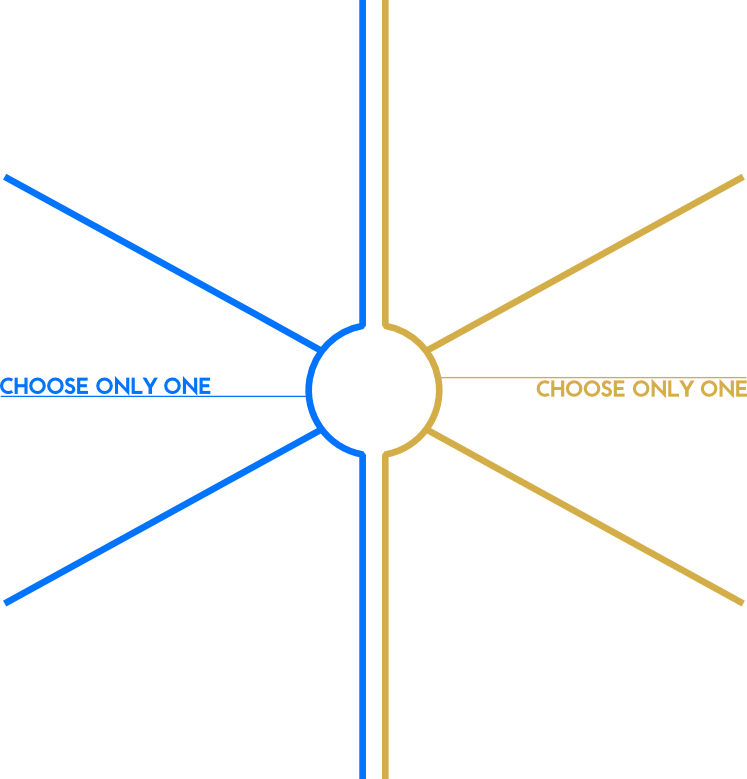
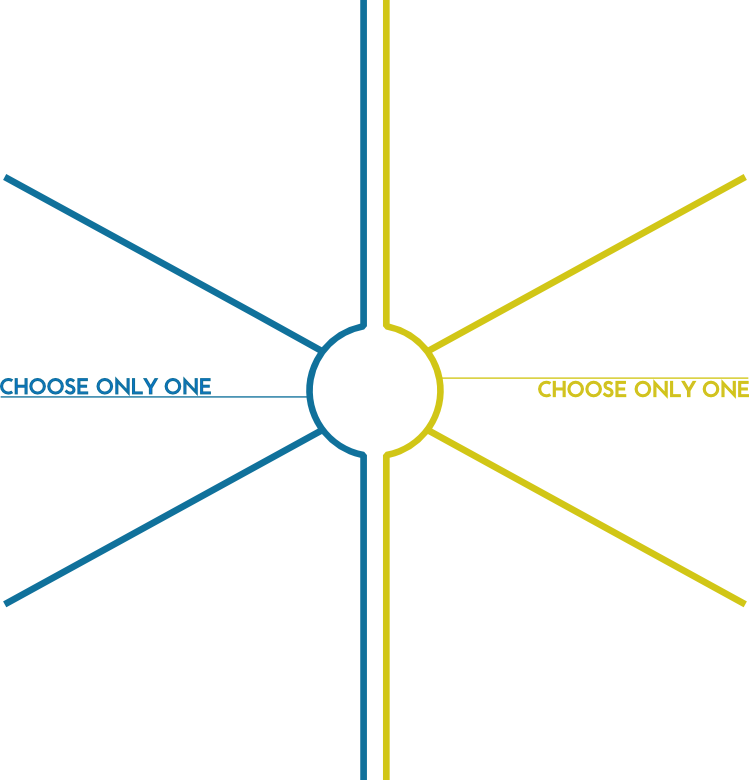
New and delete character options
Added in a "New character" tile + popup dialog which allows characters
to be created by name. Also took the opportunity to fix some styling
hiccups on the dialog (shared by "New codice") and finally style the
error message that comes back. Also trimmed off some superfluous error
text, too.

As a bonus, color-matched the weapon_path.png based on the Kuler triad.

diff --git a/client/new_character_dialog.js b/client/new_character_dialog.js
@@ -1,0 +1,52 @@
+
+// Is the dialog visible?
+Template.new_character_dialog.isVisible = function() {
+  return Session.get('new_character');
+}
+
+// The object representing the newly forming codice.
+Template.new_character_dialog.character_being_created = function() {
+  return Session.get('new_character');
+}
+
+// This is fired whenever our "add" attempt finishes
+// or fails.
+var newCharacterCallback = function(err, result) {
+  if (err) {
+    console.log('error: ' + err);
+    Session.set('new_character', _.extend(Session.get('new_character'), {
+      error: ErrorUtils.extract(err.toString())
+    }));
+  } else {
+    console.log('success; new character id: ' + result);
+    Session.set('new_character', null);
+    var name = Characters.findOne({_id: result}).name;
+    Router.go('character', {name: name});
+  }
+}
+
+// Submit function.
+var submit = function (event, template) {
+  options = {
+    name: template.find("input[name*=new_character_name]").value
+  };
+  Meteor.call('createCharacter', options, newCharacterCallback);
+}
+
+// Register click events.
+Template.new_character_dialog.events({
+  // Close the dialog.
+  'click .dialog_cancel_button': function() {
+    Session.set('new_character', null);
+  },
+  // Assemble and (attempt to) submit the new entry.
+  // If it works, the dialog will close.
+  // If not, an error message will be displayed.
+  'click .dialog_submit_button': submit,
+  'keypress input[name*=new_character_name]': function(event, template) {
+    if (event.which == 13) {
+      submit(event, template);
+    }
+  }
+});
+

diff --git a/client/css/home.css b/client/css/home.css
@@ -53,6 +53,23 @@
   background-color: #107195;
 }
 
+.user_home .user_characters .user_character:active {
+  border-color: #075c7b;
+  background-color: #075c7b;
+}
+
+/* "New character" tile styling. */
+.user_home .user_characters .user_character.new {
+  border: none;
+  width: 208px;
+  height: 208px;
+}
+.user_home .user_characters .user_character.new .name,
+.user_home .user_characters .user_character.new .details {
+  color: #c1c1c1;
+}
+
+/* Always light the text up on hover. */
 .user_home .user_characters .user_character:hover .name,
 .user_home .user_characters .user_character:active .name,
 .user_home .user_characters .user_character:hover .details,
@@ -61,8 +78,27 @@
   color: #fff;
 }
 
-.user_home .user_characters .user_character:active {
-  border-color: #075c7b;
-  background-color: #075c7b;
+/* Delete button styling. */
+.user_home .user_characters .user_character .button {
+  display: none;
+}
+.user_home .user_characters .user_character:hover .button {
+  display: block;
+  position: absolute;
+  right: 5px;
+  top: 5px;
+  height: 20px;
+  width: 20px;
+  cursor: pointer;
+  background-image: url('../images/delete.png');
+  background-position: center;
+  background-repeat: no-repeat;
+}
+.user_home .user_characters .user_character .button:hover {
+  background-color: #c1c1c1;
+  background-image: url('../images/delete_active.png');
+}
+.user_home .user_characters .user_character .button:active {
+  background-image: url('../images/delete_depress.png');
 }
 

diff --git a/client/view/home.html b/client/view/home.html
@@ -5,6 +5,7 @@
     {{else}}
       <div class="error not_logged_in">Log in to create your own characters.</div>
     {{/if}}
+    {{> new_character_dialog}}
   </div>
 </template>
 
@@ -14,14 +15,27 @@
     <div class="user_characters">
       <h2>Your characters:</h2>
       {{#each characters}}
-        <a class="user_character" href="{{pathFor 'character' name=this.name}}">
-          <div class="name">{{name}}</div>
-          <div class="details">{{details}}</div>
-        </a>
+        {{> character_tile}}
       {{/each}}
+      {{> new_character_tile}}
     </div>
   {{else}}
     <div class="error no_characters">You haven't created any characters yet.</div>
   {{/if}}
+</template>
+
+<template name="character_tile">
+  <a class="user_character" href="{{pathFor 'character' name=this.name}}">
+    <div class="name">{{name}}</div>
+    <div class="details">{{details}}</div>
+    <a class="button delete" href="#"></a>
+  </a>
+</template>
+
+<template name="new_character_tile">
+  <a class="user_character new" href="#">
+    <div class="name">NEW CHARACTER</div>
+    <div class="details">Click to get started</div>
+  </a>
 </template>
 

diff --git a/client/view/new_character_dialog.html b/client/view/new_character_dialog.html
@@ -1,0 +1,26 @@
+<template name="new_character_dialog">
+  {{#if isVisible}}
+    <div class="dialog_mask">
+    <div class="dialog_modal">
+      <div>
+        <h3>NEW CHARACTER</h3>
+        <div class="dialog-body">
+          {{#with character_being_created}}
+            {{#if error}}
+              <div class="error">{{error}}</div>
+            {{/if}}
+            <div class="name">
+              <div class="tag">NAME:</div>
+              <input type="text" class="text" name="new_character_name" value="{{name}}" />
+            </div>
+          {{/with}}
+          <div class="buttons">
+            <input type="button" class="dialog_submit_button" value="OK" />
+            <input type="button" class="dialog_cancel_button" value="Cancel" />
+          </div>
+        </div>
+      </div>
+    </div></div>
+  {{/if}}
+</template>
+

diff --git a/client/controllers/home.js b/client/controllers/home.js
@@ -22,3 +22,21 @@ Template.user_home.characters = function() {
   return CharacterSupport.characters_from_db_owned_by(Characters, get_user());
 }
 
+// Button for deleting a character.
+Template.character_tile.events({
+  'click .delete': function() {
+    if (confirm('Are you sure you want to delete "' + this.name + '"?')) {
+      Meteor.call('deleteCharacter', {name: this.name});
+    }
+  }
+});
+
+// Open a dialog to create a new character.
+Template.new_character_tile.events({
+  'click .new': function() {
+    var character = {
+      name: ''
+    };
+    Session.set('new_character', character);
+  }
+});

diff --git a/client/new_codex_dialog.js b/client/new_codex_dialog.js
@@ -14,7 +14,9 @@ Template.new_codex_dialog.codice_being_created = function() {
 var newCodiceCallback = function(err, result) {
   if (err) {
     console.log('error: ' + err);
-    Session.set('new_codice', _.extend(Session.get('new_codice'), {error: err.toString()}));
+    Session.set('new_codice', _.extend(Session.get('new_codice'), {
+      error: ErrorUtils.extract(err.toString())
+    }));
   } else {
     console.log('success; new entry id: ' + result);
     Session.set('new_codice', null);

diff --git a/client/css/dialog.css b/client/css/dialog.css
@@ -36,6 +36,7 @@
   font-weight: bold;
   font-size: 18px;
   text-align: right;
+  vertical-align: text-top;
 }
 .dialog_modal input.text {
   vertical-align: text-top;
@@ -57,3 +58,11 @@
   margin-right: 20px;
 }
 
+/* Aaaand error message styling. */
+.dialog_modal .error {
+  text-align: right;
+  margin: 5px;
+  font-weight: normal;
+  right: 20px;
+  position: relative;
+}

diff --git a/server/lib/generic_characters.js b/server/lib/generic_characters.js
@@ -96,6 +96,10 @@ GenericCharacters.createCharacter = function(name, owner, dbWrapper) {
   
   // Check the name.
   name = name.trim();
+  if (name.length == 0) {
+    // We've already tested this, so it's just for feel-goodsies.
+    throw new Meteor.Error(413, "Name too short");
+  }
   if (name.length > 100) {
     throw new Meteor.Error(413, "Name too long");
   }

diff --git a/client/controllers/lib/character_support.js b/client/controllers/lib/character_support.js
@@ -166,7 +166,7 @@ CharacterSupport.get_owners = function(db) {
 CharacterSupport.characters_from_db_owned_by = function(db, owner) {
   return db.find({owner: owner}, {sort: {modified: -1, name: -1}}).map(function(v) {
     return {
-      name: v.name,
+      name: v.name.toUpperCase(),
       details: CharacterSupport.details(v)
     };
   });

diff --git a/lib/error_utils.js b/lib/error_utils.js
@@ -1,0 +1,16 @@
+/*
+ * Error handling utils.
+ */
+
+ErrorUtils = {
+  // Take a string like "Error: Character name 'Skeeball' already exists [403]",
+  // and return just the message.
+  extract: function(err) {
+    try {
+      return err.replace(/Error: (.*) \[\d+\]/, '$1');
+    } catch (e) {
+      return err;
+    }
+  }
+};
+

diff --git a/client/view/new_codex_dialog.html b/client/view/new_codex_dialog.html
@@ -7,7 +7,7 @@
         <div class="dialog-body">
           {{#with codice_being_created}}
             {{#if error}}
-              <h2 class="error">{{error}}</h2>
+              <div class="error">{{error}}</div>
             {{/if}}
             <div class="name">
               <div class="tag">NAME:</div>

diff --git a/client/view/index.html b/client/view/index.html
@@ -1,5 +1,5 @@
 <head>
-  <title>Meteor Test</title>
+  <title>Pen & Paper</title>
   <link rel="icon" href="/images/favicon.ico">
 </head>
 
